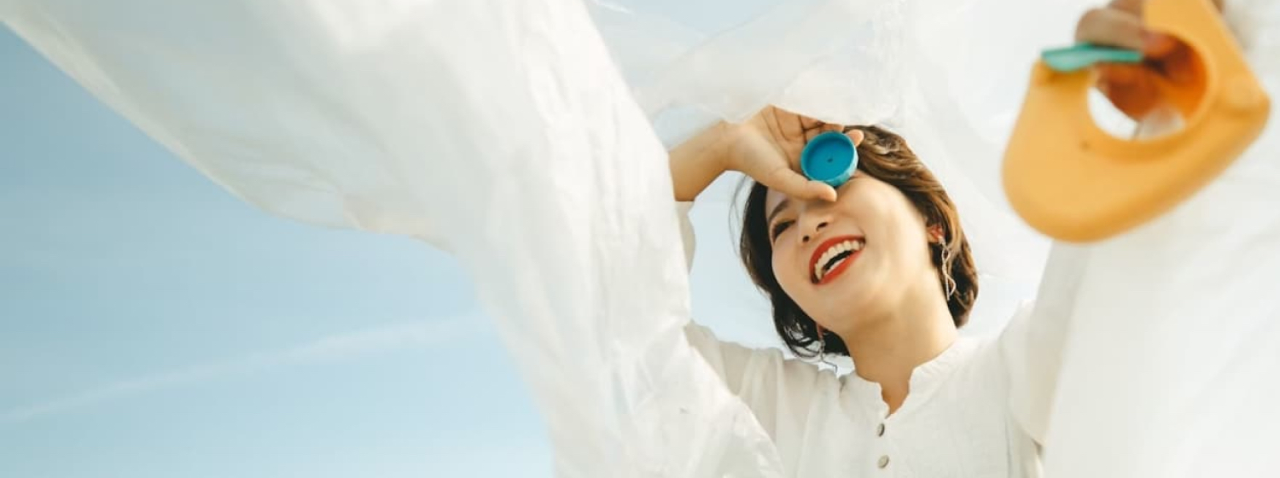
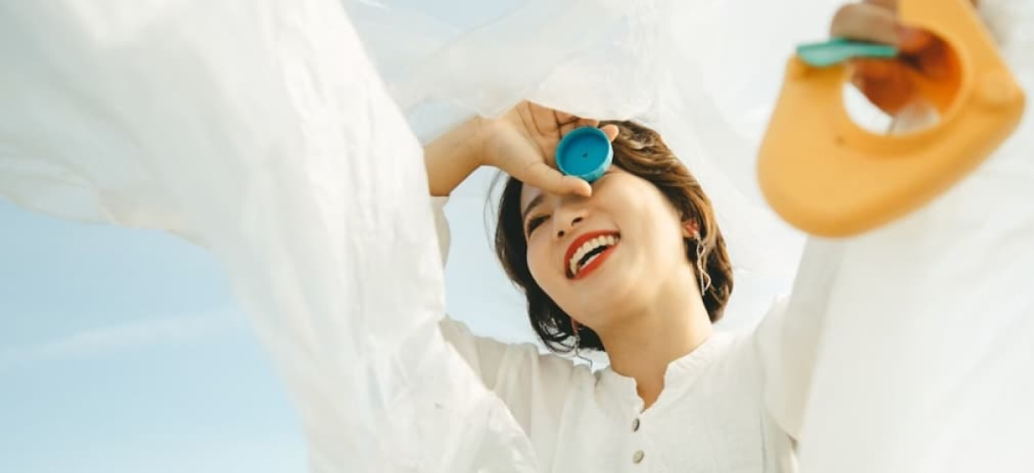
reasonの背景のcssを調整

diff --git a/css/style.scss b/css/style.scss
@@ -484,14 +484,33 @@ $layer: (
 // =======================
 
 .reason{
-    background: url(../img/bg1.png) no-repeat center / cover;
     position: relative;
-    padding: 6.625em 0;
+    padding:6.625em 0;
+
+    &::before{
+        content: '';
+        position: absolute;
+        top: 0;
+        left: 0;
+        right: 0;
+        width: 100%;
+        height: 100%;
+        background: #000;
+        opacity: .2;
+    }
+
+    @include mq('pc'){
+        background: url(../img/bg.png) no-repeat center / cover;
+    }
 
     @include mq('sp'){
-        background: url(../img/bg.png) no-repeat 70% 80% / cover;
+        background: url(../img/bg1.png) no-repeat center / cover;
         padding: 11em 0 3.5em;
     }
+}
+
+.reason__inner{
+    position: relative;
 }
 
 .reason__title{
@@ -515,17 +534,7 @@ $layer: (
     }
 }
 
-.reason__overlay{
-    position: absolute;
-    top: 0;
-    left: 0;
-    right: 0;
-    width: 100%;
-    height: 100%;
-    background: #000;
-    opacity: .06;
-    z-index: 2;
-}
+
 
 // =======================
 //  Products

diff --git a/css/style.css b/css/style.css
@@ -467,16 +467,37 @@ img {
 }
 
 .reason {
-  background: url(../img/bg1.png) no-repeat center/cover;
   position: relative;
   padding: 6.625em 0;
 }
 
+.reason::before {
+  content: '';
+  position: absolute;
+  top: 0;
+  left: 0;
+  right: 0;
+  width: 100%;
+  height: 100%;
+  background: #000;
+  opacity: .2;
+}
+
+@media screen and (min-width: 768px) {
+  .reason {
+    background: url(../img/bg.png) no-repeat center/cover;
+  }
+}
+
 @media screen and (max-width: 767px) {
   .reason {
-    background: url(../img/bg.png) no-repeat 70% 80%/cover;
+    background: url(../img/bg1.png) no-repeat center/cover;
     padding: 11em 0 3.5em;
   }
+}
+
+.reason__inner {
+  position: relative;
 }
 
 .reason__title {
@@ -502,18 +523,6 @@ img {
   .reason__desc {
     font-size: 0.875em;
   }
-}
-
-.reason__overlay {
-  position: absolute;
-  top: 0;
-  left: 0;
-  right: 0;
-  width: 100%;
-  height: 100%;
-  background: #000;
-  opacity: .06;
-  z-index: 2;
 }
 
 .products__inner {
